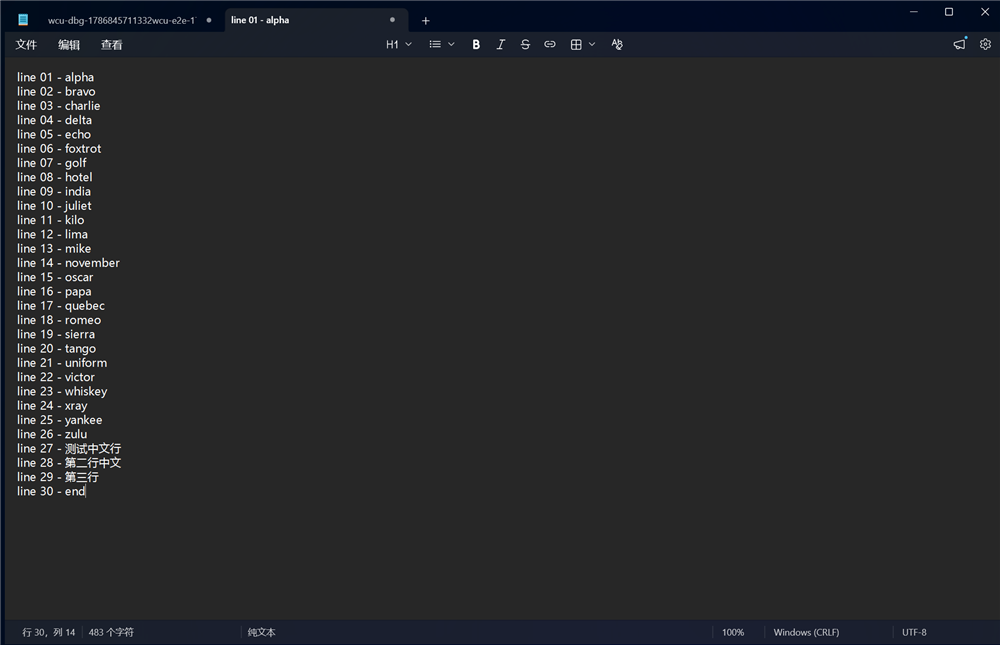
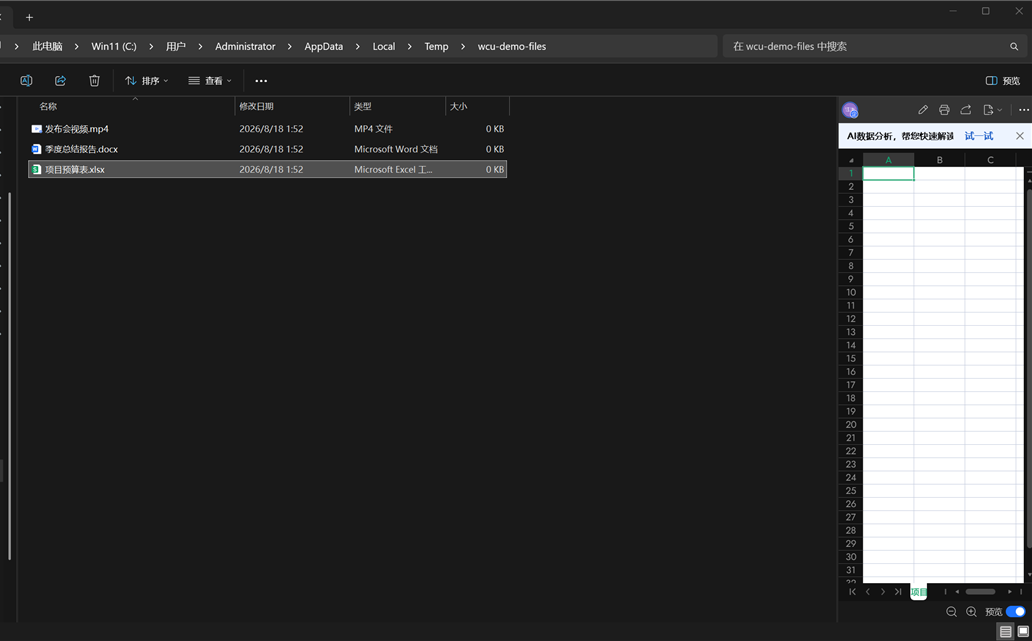
Assets: real usage-scenario screenshots (privacy-safe); static MIT badge
- screenshot-1: File Explorer - find locates a file, semantic invoke
  selects it (neutral demo folder; nav pane cropped out)
- screenshot-2: type_text writing a real document in Notepad
- screenshot-3: UWP Calculator, find + semantic Invoke clicks (25 x 4 = 100)
- license badge: static shields.io MIT
- READMEs (zh + en): 3-image scenario grid; screenshots.json: 3 URLs

Changed region(s): [[0.0, 0.156, 1.0, 1.0], [0.0, 0.0, 1.0, 0.8736], [0.434, 0.156, 0.465, 0.1872]]

diff --git a/README.en.md b/README.en.md
@@ -3,7 +3,7 @@
 # dsh-computer-use-win
 
 [![CI](https://github.com/Yu-tao-Li/dsh-computer-use-win/actions/workflows/ci.yml/badge.svg)](https://github.com/Yu-tao-Li/dsh-computer-use-win/actions/workflows/ci.yml)
-[![license](https://img.shields.io/github/license/Yu-tao-Li/dsh-computer-use-win)](LICENSE)
+[![license](https://img.shields.io/badge/license-MIT-green)](LICENSE)
 ![platform](https://img.shields.io/badge/platform-Windows-0078D6)
 [![stars](https://img.shields.io/github/stars/Yu-tao-Li/dsh-computer-use-win?style=social)](https://github.com/Yu-tao-Li/dsh-computer-use-win)
 
@@ -13,9 +13,9 @@
 
 Bridges into DSH through the in-box `@deepseek-ai/dsh-mcp-client` — no DSH modifications. Zero runtime dependencies.
 
-| Window-cropped capture + UIA tree (`snapshot`) | OCR fallback (CJK UI, word boxes in screen coordinates) |
-|---|---|
-| ![screenshot 1](assets/screenshot-1.png) | ![screenshot 2](assets/screenshot-2.png) |
+| ① File Explorer: `find` locates the file, semantic `invoke` selects it (status bar: "1 item selected") | ② `type_text` writing a real document (clipboard path, `verifyValue` read-back) | ③ UWP Calculator: `find` locates buttons, semantic `Invoke` clicks (25×4=100) |
+|---|---|---|
+| ![1](assets/screenshot-1.png) | ![2](assets/screenshot-2.png) | ![3](assets/screenshot-3.png) |
 
 ## Features
 

diff --git a/README.md b/README.md
@@ -3,7 +3,7 @@
 # dsh-computer-use-win
 
 [![CI](https://github.com/Yu-tao-Li/dsh-computer-use-win/actions/workflows/ci.yml/badge.svg)](https://github.com/Yu-tao-Li/dsh-computer-use-win/actions/workflows/ci.yml)
-[![license](https://img.shields.io/github/license/Yu-tao-Li/dsh-computer-use-win)](LICENSE)
+[![license](https://img.shields.io/badge/license-MIT-green)](LICENSE)
 ![platform](https://img.shields.io/badge/platform-Windows-0078D6)
 [![stars](https://img.shields.io/github/stars/Yu-tao-Li/dsh-computer-use-win?style=social)](https://github.com/Yu-tao-Li/dsh-computer-use-win)
 
@@ -13,9 +13,9 @@
 
 通过 DSH 内置的 `@deepseek-ai/dsh-mcp-client` 桥接，**不改 DSH 本体**，零运行时依赖。
 
-| 窗口裁剪截图 + UIA 树（`snapshot`） | OCR 回退（中文界面识别 + 屏幕坐标词框） |
-|---|---|
-| ![screenshot 1](assets/screenshot-1.png) | ![screenshot 2](assets/screenshot-2.png) |
+| ① 文件资源管理器：`find` 定位 + 语义 `invoke` 选中文件（状态栏"选中 1 个项目"） | ② `type_text` 写入真实文档（剪贴板路径，`verifyValue` 回读） | ③ UWP 计算器：`find` 定位按钮 + 语义 `Invoke` 点击（25×4=100） |
+|---|---|---|
+| ![1](assets/screenshot-1.png) | ![2](assets/screenshot-2.png) | ![3](assets/screenshot-3.png) |
 
 ## 特性
 
